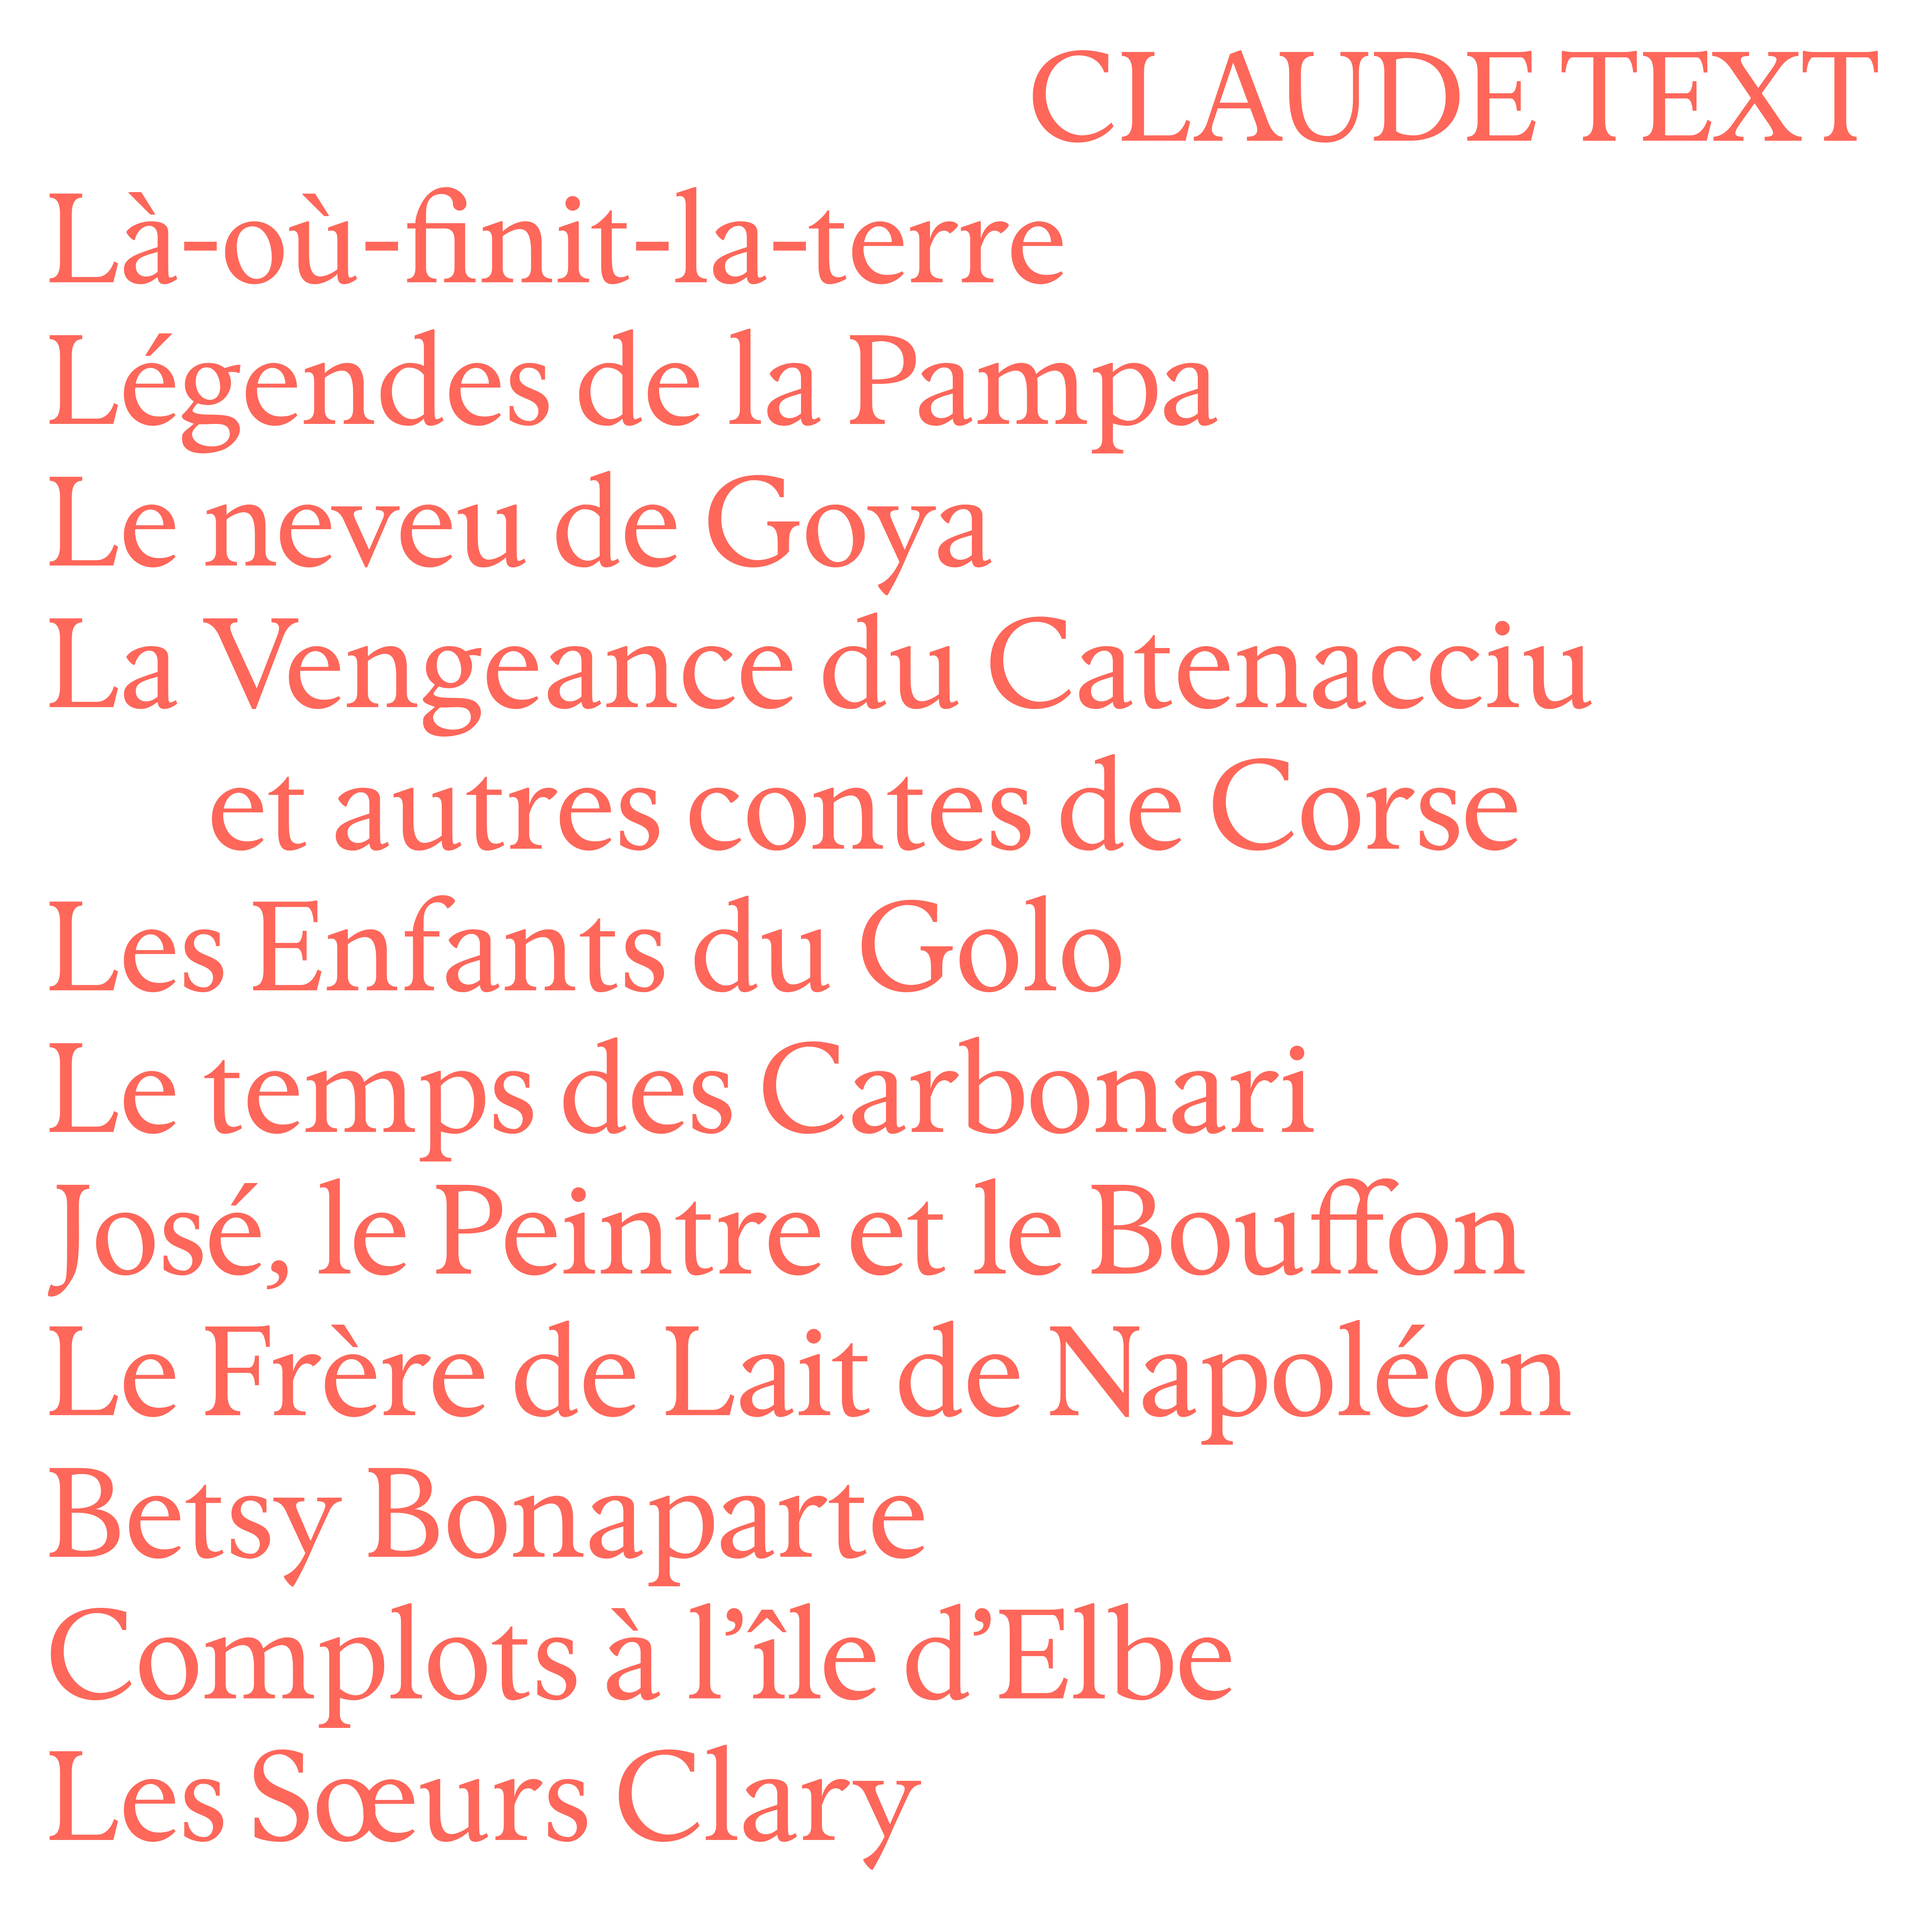
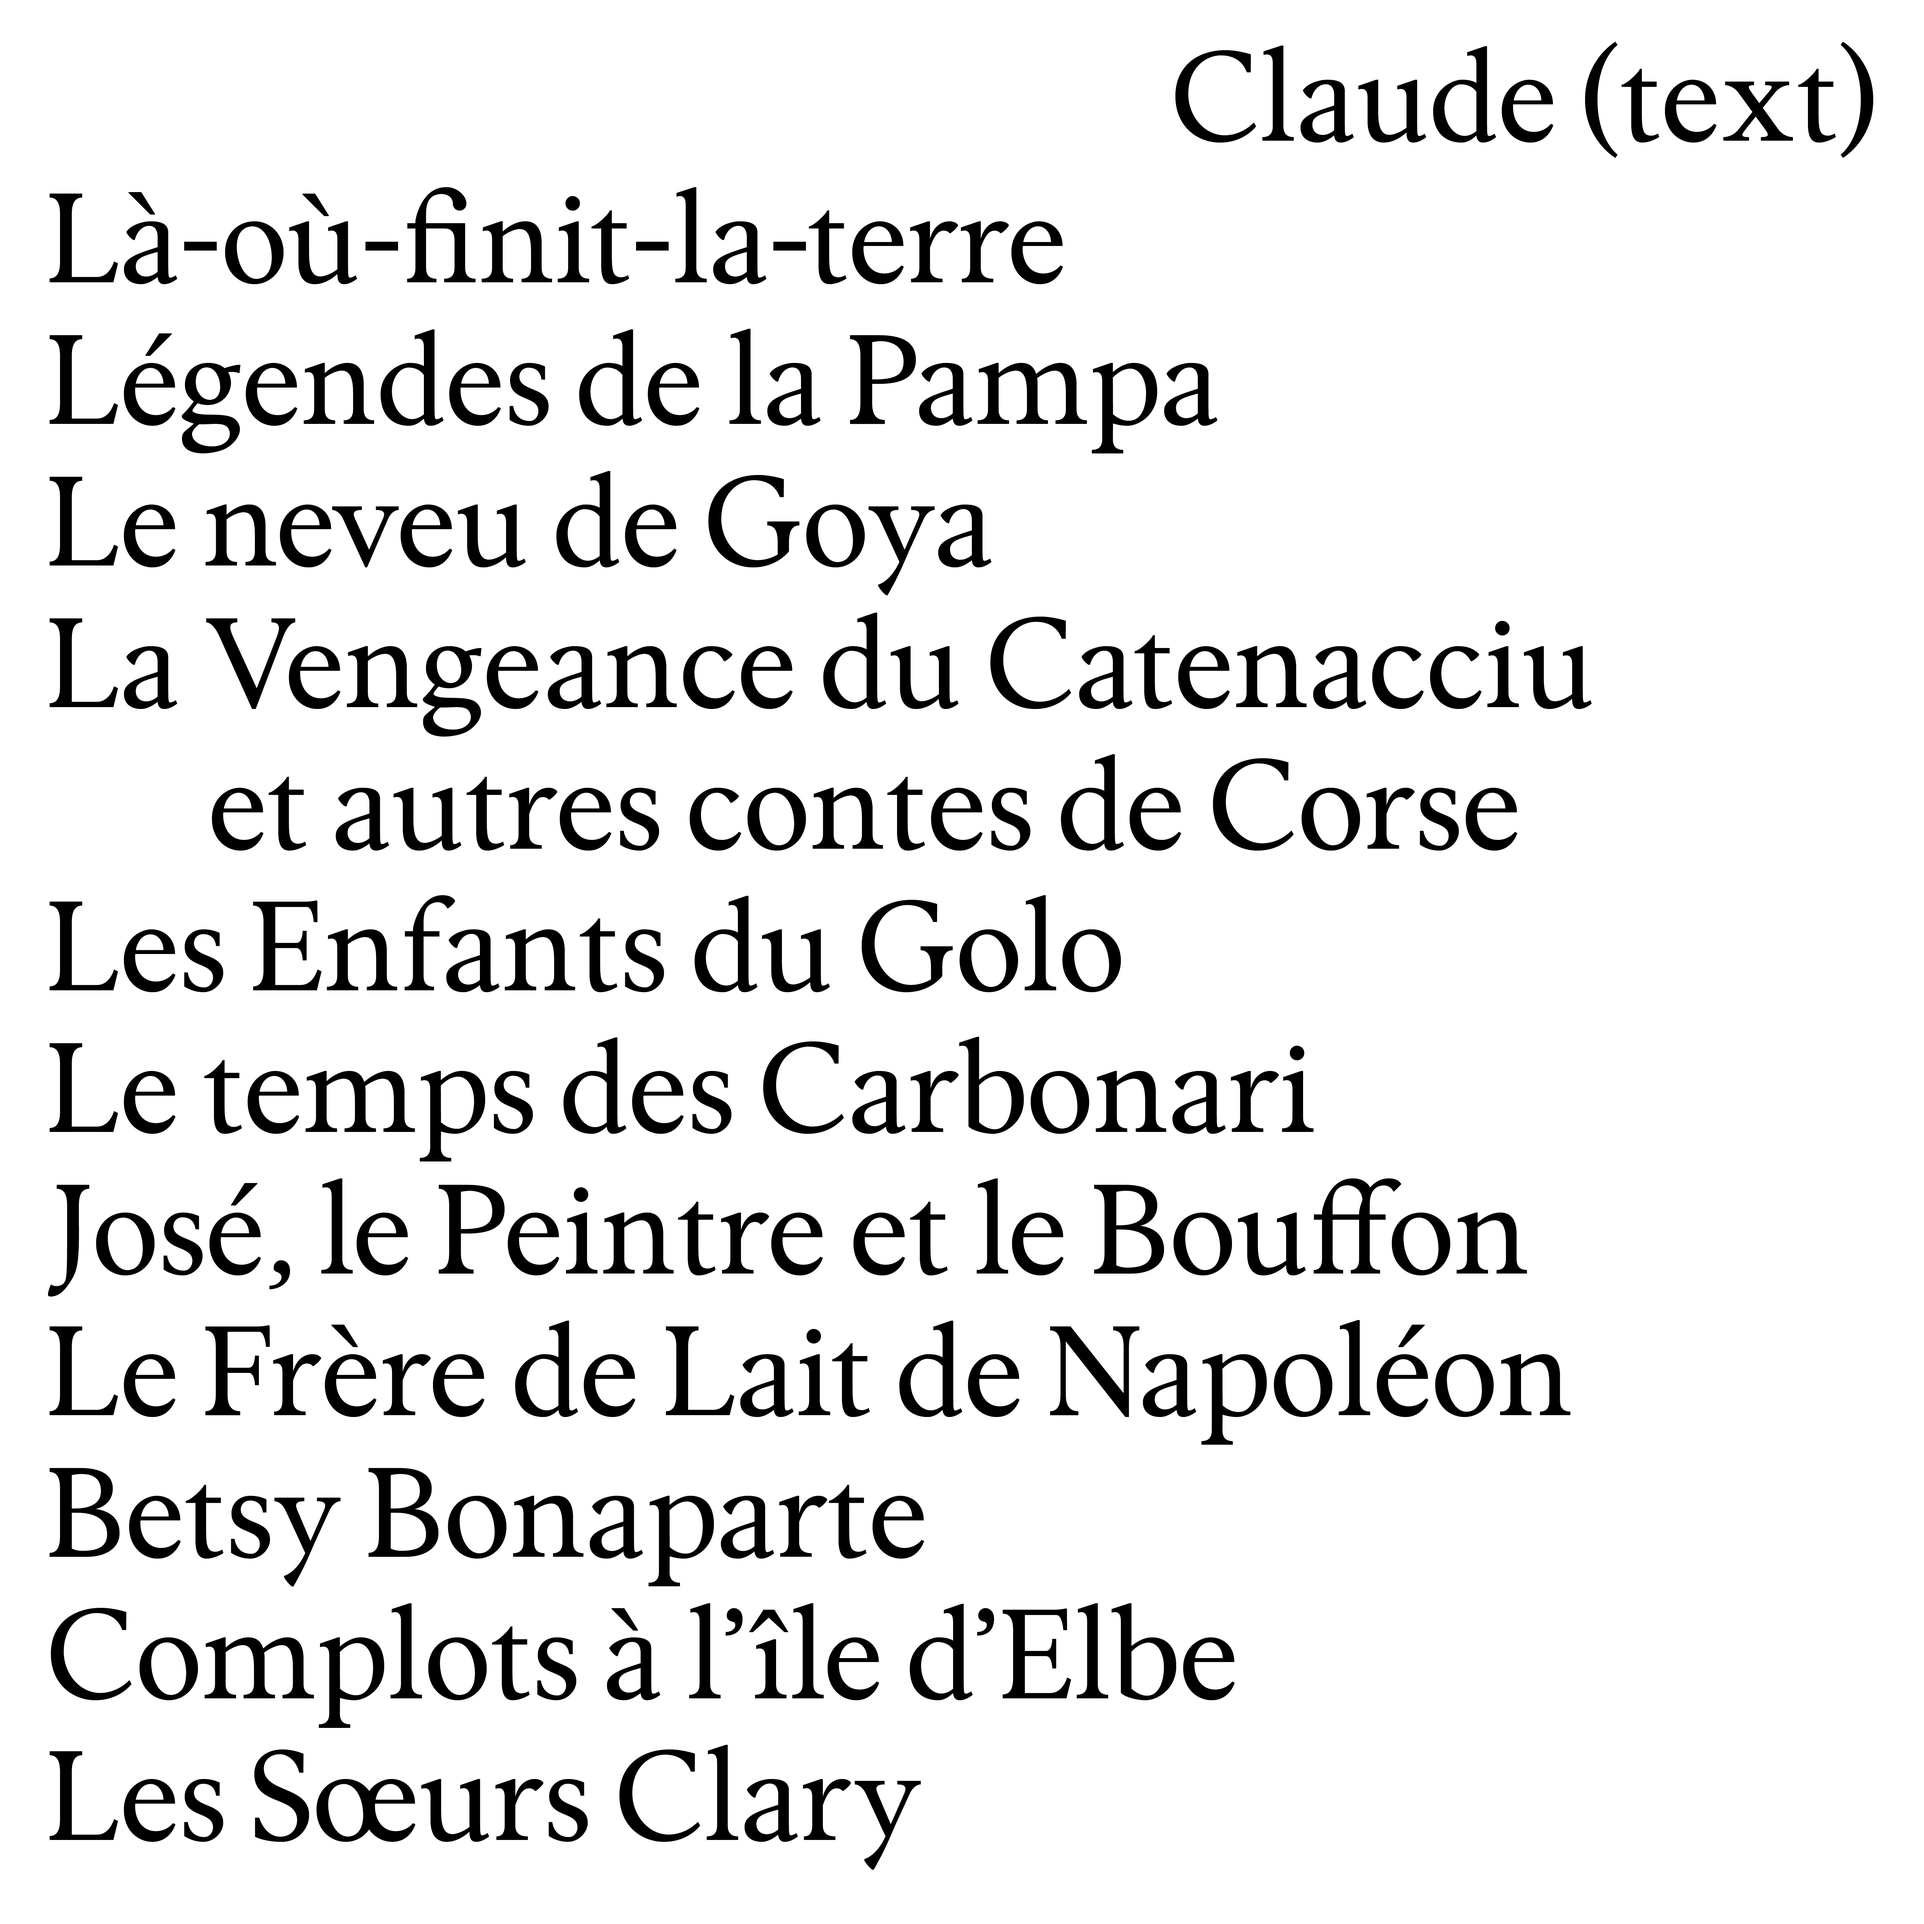
Claude

Changed region(s): [[0.0, 0.0936, 0.8424, 0.9672], [0.5304, 0.0, 0.9984, 0.0936]]

diff --git a/Ed_projects/remix.html b/Ed_projects/remix.html
@@ -32,7 +32,7 @@
             <h2 class="description-title">Remix</h2>
             <h2 class="description-additional">2020</h2>
 
-           <p class="description-text">. </p>
+           <p class="description-text">Remix is a collection of contributions written by selected speakers invited to the Printemps de la Typographie’s 2018 edition in Paris, an event offering numerous talks dedicated to the type field, whether it concerns designing or thinking. Here is an unselected proposal in collaboration with Laure-Anne Labbé and <a href="https://www.ultrajhera.alwaysdata.net/">Tina Payet</a>, exploring the idea of a book within a book. The texts are differentiated by their field of study/posture/tone, and placed on a uniform and invariant space.</p>
 
 
 
@@ -41,8 +41,8 @@
 
         <div class="slideshow">
 
-            <img src="/media/hangover1.jpg" />
-
+            <img src="/media/remix1.jpg"/>
+            <img src="/media/remix3.jpg"/>
         </div>
 
     </div>

diff --git a/type_projects/claude.html b/type_projects/claude.html
@@ -28,14 +28,14 @@
         <div class="description-container">
             <h2 class="description-title">Claude</h2>
             <p class="description-additional">2019</p>
-            <p class="description-text"></p>
+            <p class="description-text">Claude is my first ever typeface design, sourced from a deep calligraphic study and inspired by my grandmother, a novelist of strong character. The font, designed with a need of clear legibility, fits long text purposes and features classic shapes of humanistic strokes, originating from the nib angle. Claude is available on request and offers more than 500 latin glyphs.</p>
         </div>
 
 
         <div class="slideshow">
     
             <img src="/media/claude_3.jpg"/>
-            <img src="/media/claude_2.jpg"/>
+            <img src="/media/claude_2.jpg">
             <img src="/media/claude_1.jpg"/>
         
 

diff --git a/about.html b/about.html
@@ -64,7 +64,7 @@
                 <p>Graphic design intern</p>
                 <p>Pylones, Colombes, FR</p>
             </div>
-            <p class="copyright">Website designed by Lucie and Austin Kenny. All work shown here is mine, unless specified otherwise. Pictures taken by Hugo Jourdan and myself. Copyright © Lucie Kenny, all rights reserved.</p>
+            <p class="copyright">Website designed by Lucie and Austin Kenny. All work shown here is mine, unless specified otherwise. Pictures taken by Hugo Jourdan and Lucie Kenny. Copyright © Lucie Kenny, all rights reserved.</p>
             
         </div>
 

diff --git a/type_projects/newfont.html b/type_projects/newfont.html
@@ -28,7 +28,7 @@
         <div class="description-container">
             <h2 class="description-title">[Untitled]</h2>
             <p class="description-additional">2020</p>
-            <p class="description-text">Work in progress </p>
+            <p class="description-text"> This work in progress takes its originality in its bone-like serifs and extremely tight strokes. Designed for titles, a lowercase is currently in the works. </p>
         </div>
 
 

diff --git a/style.css b/style.css
@@ -53,12 +53,8 @@ body {
     
 }
 
-.main-title {
-    color: rgb(0, 0, 0);
-    text-decoration: none;
-    font-family: 'Times New Roman', Times, serif;
+.main-title {  
     z-index: 100;
-    font-size: 1rem;
     display: inline-flex;
     justify-content: center;
     align-items: center;
